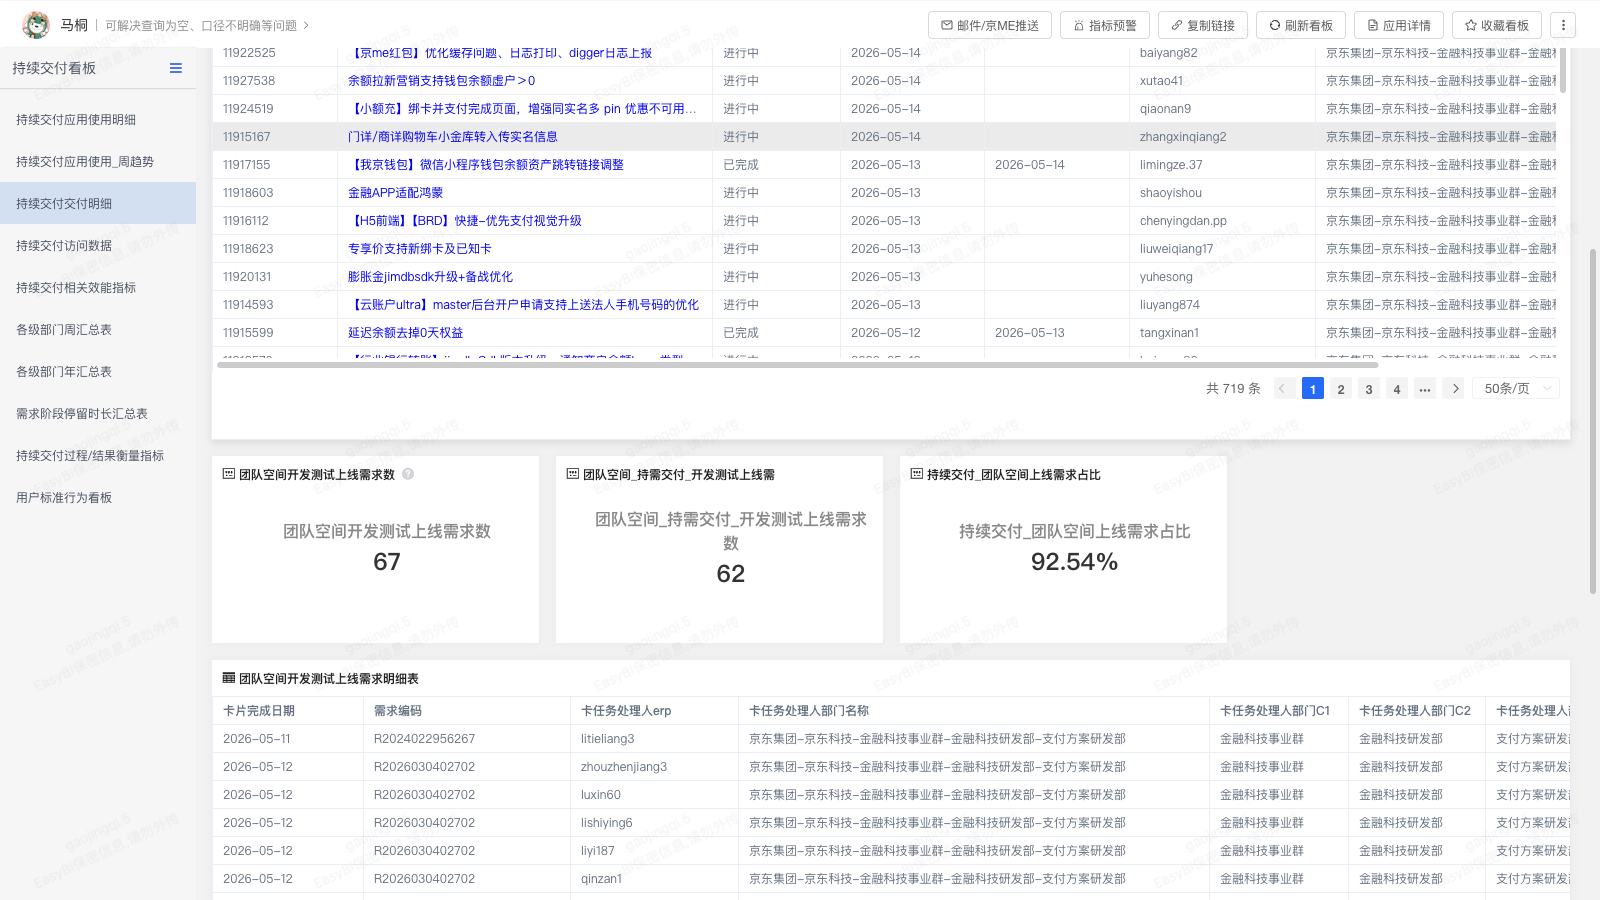
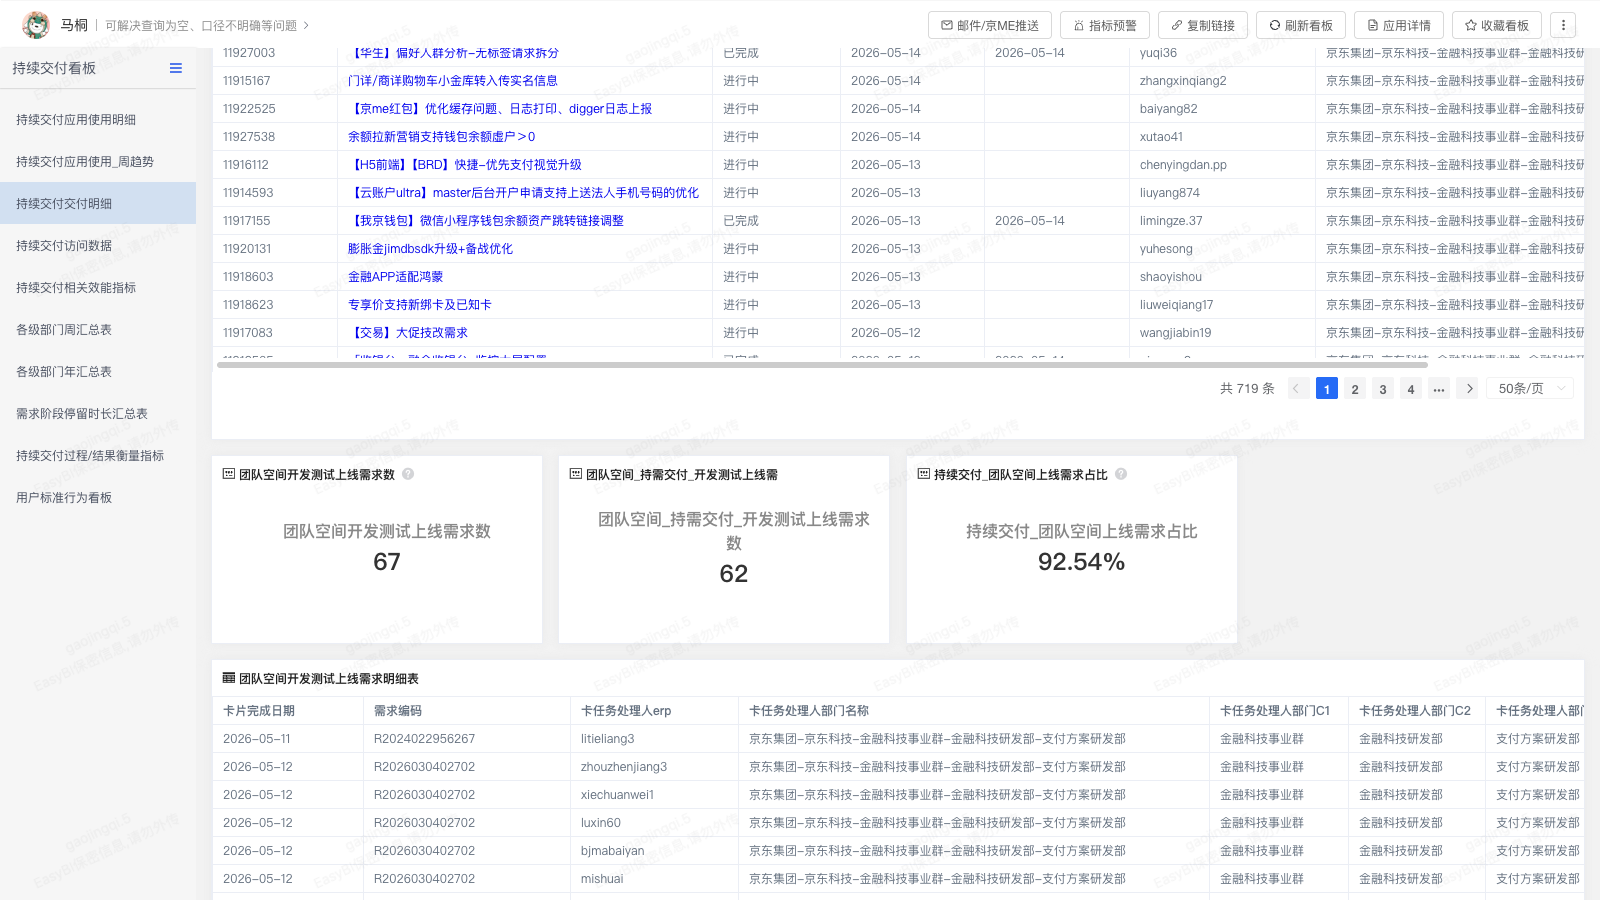
日常巡检

diff --git a/daily-inspection-skill/index.html b/daily-inspection-skill/index.html
@@ -1208,7 +1208,7 @@
     }
   ],
   "inspection_date": "2026-05-15",
-  "generated_at": "2026-05-15 10:04:08",
+  "generated_at": "2026-05-15 10:41:53",
   "repair_inspections": [
     {
       "repair_type": "delayed_test",